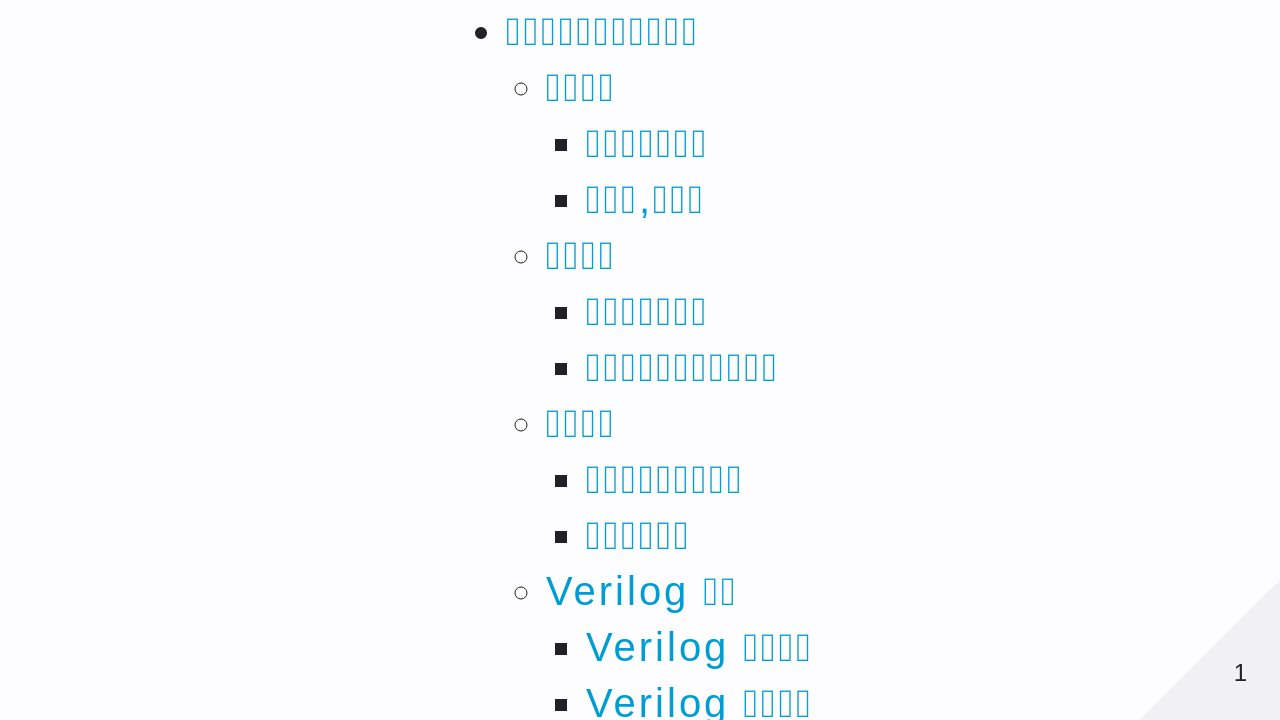
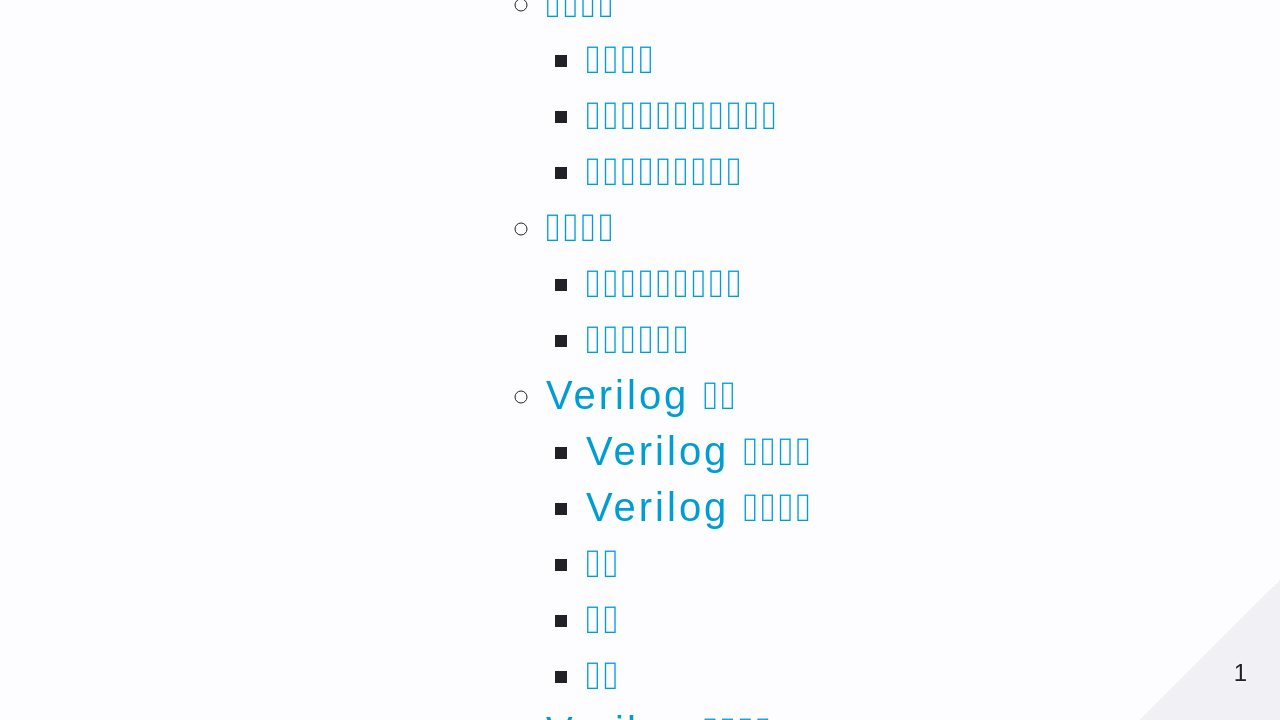
Deploying to gh-pages from @ BowmanChow/ElectronicTeaching@9a36fcaac8832e75939a182bfc636a5e23cd9e2b 🚀

Changed region(s): [[0.375, 0.0, 0.625, 1.0]]

diff --git a/slides/index.html b/slides/index.html
@@ -11,7 +11,7 @@
[1 lines of base64/hex data omitted]
 <h2>目录</h2>
 <ul>
-<li><a href="#%E6%95%B0%E5%AD%97%E7%94%B5%E8%B7%AF%E7%90%86%E8%AE%BA%E4%B8%8E%E8%AE%BE%E8%AE%A1%E5%85%A5%E9%97%A8">数字电路理论与设计入门</a>
+<li><a href="#%E6%95%B0%E5%AD%97%E7%94%B5%E8%B7%AF">数字电路</a>
 <ul>
 <li><a href="#%E5%B8%83%E5%B0%94%E4%BB%A3%E6%95%B0">布尔代数</a>
 <ul>
@@ -21,8 +21,9 @@
 </li>
 <li><a href="#%E7%BB%84%E5%90%88%E9%80%BB%E8%BE%91">组合逻辑</a>
 <ul>
-<li><a href="#%E9%97%A8%E7%BA%A7%E7%94%B5%E8%B7%AF%E7%9A%84%E5%AE%9E%E7%8E%B0">门级电路的实现</a></li>
+<li><a href="#%E9%97%A8%E7%BA%A7%E7%94%B5%E8%B7%AF">门级电路</a></li>
 <li><a href="#%E7%BB%84%E5%90%88%E7%94%B5%E8%B7%AF%E4%B8%AD%E7%9A%84%E5%BB%B6%E6%97%B6%E4%B8%8E%E5%86%92%E9%99%A9">组合电路中的延时与冒险</a></li>
+<li><a href="#%E5%B8%B8%E8%A7%81%E7%9A%84%E7%BB%84%E5%90%88%E9%80%BB%E8%BE%91%E7%94%B5%E8%B7%AF">常见的组合逻辑电路</a></li>
 </ul>
 </li>
 <li><a href="#%E6%97%B6%E5%BA%8F%E9%80%BB%E8%BE%91">时序逻辑</a>
@@ -35,8 +36,22 @@
 <ul>
 <li><a href="#verilog-%E5%9F%BA%E6%9C%AC%E6%A6%82%E5%BF%B5">Verilog 基本概念</a></li>
 <li><a href="#verilog-%E5%9F%BA%E6%9C%AC%E8%AF%AD%E5%8F%A5">Verilog 基本语句</a></li>
+<li><a href="#%E5%AE%9E%E8%B7%B5">实践</a></li>
 <li><a href="#%E4%BB%BF%E7%9C%9F">仿真</a></li>
 <li><a href="#%E7%BB%BC%E5%90%88">综合</a></li>
+</ul>
+</li>
+<li><a href="#verilog-%E5%AE%89%E5%85%A8%E5%88%86%E6%9E%90">Verilog 安全分析</a>
+<ul>
+<li><a href="#%E7%94%B5%E8%B7%AF%E5%88%86%E6%9E%90">电路分析</a></li>
+<li><a href="#%E9%80%86%E5%90%91">逆向</a></li>
+</ul>
+</li>
+<li><a href="#%E4%BB%8E%E7%A1%AC%E4%BB%B6%E5%88%B0%E8%BD%AF%E4%BB%B6">从硬件到软件</a>
+<ul>
+<li><a href="#%E4%BD%BF%E7%94%A8%E7%94%B5%E8%B7%AF%E6%9E%84%E9%80%A0%E8%BF%90%E7%AE%97%E5%99%A8">使用电路构造运算器</a></li>
+<li><a href="#%E5%BB%BA%E7%AB%8B%E6%95%B0%E6%8D%AE%E9%80%9A%E8%B7%AF">建立数据通路</a></li>
+<li><a href="#%E7%AE%80%E5%8D%95-cpu-%E8%AE%BE%E8%AE%A1">简单 CPU 设计</a></li>
 </ul>
 </li>
 </ul>
@@ -44,18 +59,21 @@
 </ul>
 </section>
 </foreignObject></svg><svg data-marpit-svg="" viewBox="0 0 1280 720"><foreignObject width="1280" height="720"><section id="2" data-paginate="true" data-theme="uncover" data-marpit-pagination="2" data-marpit-pagination-total="6" style="--paginate:true;--theme:uncover;">
-<h1>数字电路理论与设计入门</h1>
+<h1>数字电路</h1>
 <p>周君宝</p>
 </section>
 </foreignObject></svg><svg data-marpit-svg="" viewBox="0 0 1280 720"><foreignObject width="1280" height="720"><section id="3" data-paginate="true" data-theme="uncover" data-marpit-pagination="3" data-marpit-pagination-total="6" style="--paginate:true;--theme:uncover;">
 <h2>布尔代数</h2>
 <h3>逻辑的代数表示</h3>
+<p>与、或、非、异或、同或</p>
+<p>德·摩根定律</p>
 <h3>真值表,卡诺图</h3>
 </section>
 </foreignObject></svg><svg data-marpit-svg="" viewBox="0 0 1280 720"><foreignObject width="1280" height="720"><section id="4" data-paginate="true" data-theme="uncover" data-marpit-pagination="4" data-marpit-pagination-total="6" style="--paginate:true;--theme:uncover;">
 <h2>组合逻辑</h2>
-<h3>门级电路的实现</h3>
+<h3>门级电路</h3>
 <h3>组合电路中的延时与冒险</h3>
+<h3>常见的组合逻辑电路</h3>
 </section>
 </foreignObject></svg><svg data-marpit-svg="" viewBox="0 0 1280 720"><foreignObject width="1280" height="720"><section id="5" data-paginate="true" data-theme="uncover" data-marpit-pagination="5" data-marpit-pagination-total="6" style="--paginate:true;--theme:uncover;">
 <h2>时序逻辑</h2>
@@ -71,8 +89,20 @@
 <pre><code class="language-verilog"><span class="hljs-keyword">module</span>
 <span class="hljs-keyword">always</span>
 </code></pre>
+<h3>实践</h3>
+<p><a href="https://www.xilinx.com/support/download.html">Xilinx Vivado 下载页面</a></p>
+<p><a href="https://www.xilinx.com/support/download/index.html/content/xilinx/en/downloadNav/vivado-design-tools/archive.html">Xilinx Vivado Archive</a></p>
+<p>下载 2019.2 版本 <code>Xilinx Unified Installer 2019.2: Windows Self Extracting Web Installer (EXE - 65.5 MB)</code></p>
+<p><a href="https://cloud.tsinghua.edu.cn/d/8dae2fcba4924b208279/">网盘下载地址</a></p>
 <h3>仿真</h3>
 <h3>综合</h3>
+<h2>Verilog 安全分析</h2>
+<h3>电路分析</h3>
+<h3>逆向</h3>
+<h2>从硬件到软件</h2>
+<h3>使用电路构造运算器</h3>
+<h3>建立数据通路</h3>
+<h3>简单 CPU 设计</h3>
 </section>
 <script>!function(){"use strict";const t="marpitSVGPolyfill:setZoomFactor,",e=Symbol();let r,o;function n(n){const i="object"==typeof n&&n.target||document,a="object"==typeof n?n.zoom:n;window[e]||(Object.defineProperty(window,e,{configurable:!0,value:!0}),window.addEventListener("message",(({data:e,origin:r})=>{if(r===window.origin)try{if(e&&"string"==typeof e&&e.startsWith(t)){const[,t]=e.split(","),r=Number.parseFloat(t);Number.isNaN(r)||(o=r)}}catch(t){console.error(t)}})));let l=!1;Array.from(i.querySelectorAll("svg[data-marpit-svg]"),(t=>{var e,n,i,s;t.style.transform||(t.style.transform="translateZ(0)");const c=a||o||t.currentScale||1;r!==c&&(r=c,l=c);const d=t.getBoundingClientRect(),{length:u}=t.children;for(let r=0;r<u;r+=1){const o=t.children[r],a=o.getScreenCTM();if(a){const t=null!==(n=null===(e=o.x)||void 0===e?void 0:e.baseVal.value)&&void 0!==n?n:0,r=null!==(s=null===(i=o.y)||void 0===i?void 0:i.baseVal.value)&&void 0!==s?s:0,l=o.firstElementChild,{style:u}=l;u.transformOrigin||(u.transformOrigin=`${-t}px ${-r}px`),u.transform=`scale(${c}) matrix(${a.a}, ${a.b}, ${a.c}, ${a.d}, ${a.e-d.left}, ${a.f-d.top}) translateZ(0.0001px)`}}})),!1!==l&&Array.from(i.querySelectorAll("iframe"),(({contentWindow:e})=>{null==e||e.postMessage(`${t}${l}`,"null"===window.origin?"*":window.origin)}))}r=1,o=void 0;const i=(t,e,r)=>{if(t.getAttribute(e)!==r)return t.setAttribute(e,r),!0};function a({once:t=!1,target:e=document}={}){const r="Apple Computer, Inc."===navigator.vendor?[n]:[];let o=!t;const a=()=>{for(const t of r)t({target:e});!function(t=document){Array.from(t.querySelectorAll('svg[data-marp-fitting="svg"]'),(t=>{var e;const r=t.firstChild,o=r.firstChild,{scrollWidth:n,scrollHeight:a}=o;let l,s=1;if(t.hasAttribute("data-marp-fitting-code")&&(l=null===(e=t.parentElement)||void 0===e?void 0:e.parentElement),t.hasAttribute("data-marp-fitting-math")&&(l=t.parentElement),l){const t=getComputedStyle(l),e=Math.ceil(l.clientWidth-parseFloat(t.paddingLeft||"0")-parseFloat(t.paddingRight||"0"));e&&(s=e)}const c=Math.max(n,s),d=Math.max(a,1),u=`0 0 ${c} ${d}`;i(r,"width",`${c}`),i(r,"height",`${d}`),i(t,"preserveAspectRatio",getComputedStyle(t).getPropertyValue("--preserve-aspect-ratio")||"xMinYMin meet"),i(t,"viewBox",u)&&t.classList.toggle("__reflow__")}))}(e),o&&window.requestAnimationFrame(a)};return a(),()=>{o=!1}}const l=Symbol(),s=document.currentScript;((t=document)=>{if("undefined"==typeof window)throw new Error("Marp Core's browser script is valid only in browser context.");if(t[l])return t[l];const e=a({target:t}),r=()=>{e(),delete t[l]};Object.defineProperty(t,l,{configurable:!0,value:r})})(s?s.getRootNode():document)}();
 </script></foreignObject></svg></div><script>/*!! License: https://unpkg.com/@marp-team/marp-cli@1.5.0/lib/bespoke.js.LICENSE.txt */
